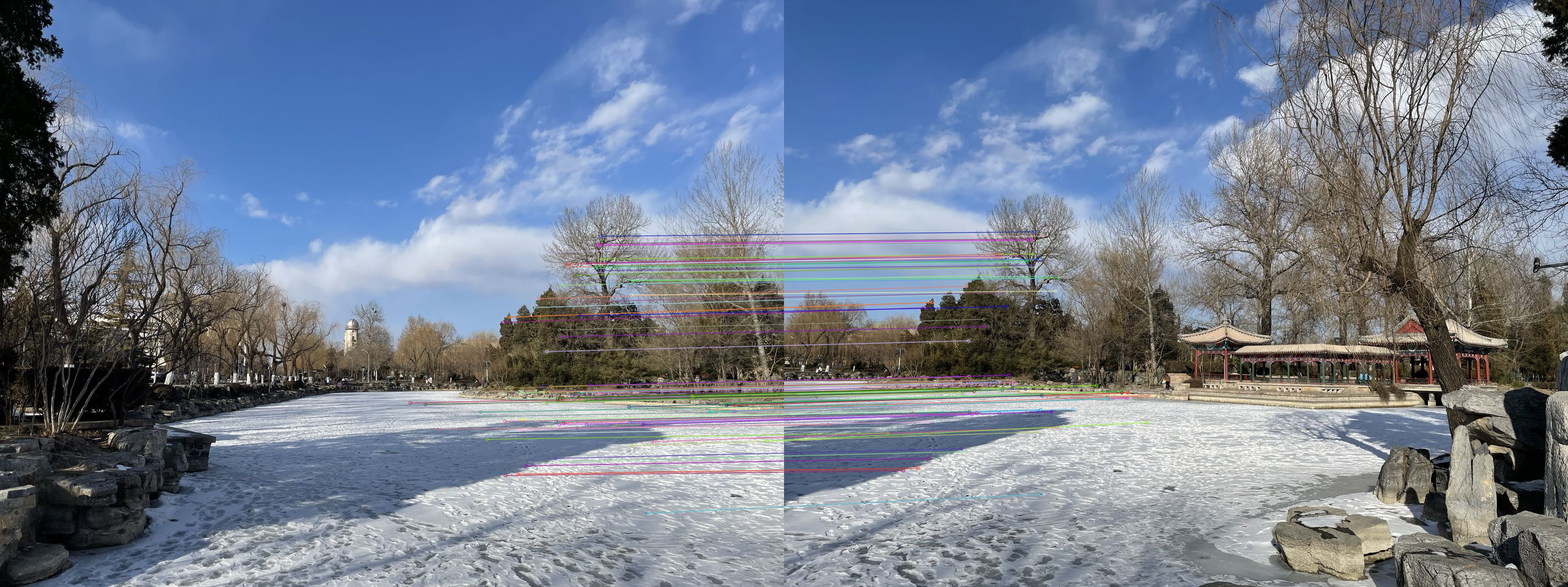
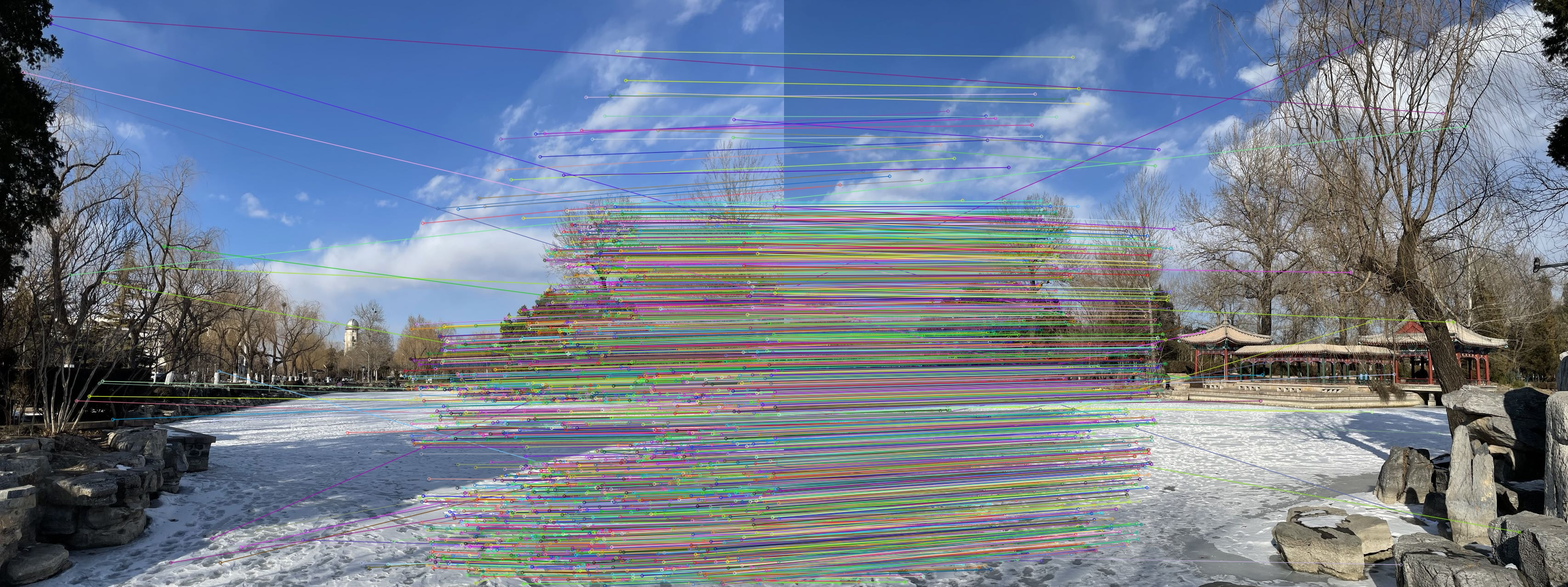
add another simple sift

diff --git a/main.py b/main.py
@@ -36,24 +36,20 @@ def sift(img1, img2):
 
     # BFMatcher with default params
     bf = cv.BFMatcher()
-
-    # matches = bf.knnMatch(des1, des2, k=2)
-    matches = bf.match(des1, des2)
-    matches = sorted(matches, key = lambda x:x.distance)
+    matches = bf.knnMatch(des1, des2, k=2)
 
     # Apply ratio test
-    # good = []
-    # for m, n in matches:
-    #     if m.distance < 0.75 * n.distance:
-    #         good.append([m])
+    good = []
+    for m, n in matches:
+        if m.distance < 0.75 * n.distance:
+            good.append([m])
 
     # cv.drawMatchesKnn expects list of lists as matches.
-    img3 = cv.drawMatches(img1, kp1, img2, kp2, matches[:100], None, flags=2)
-    # img3 = cv.drawMatchesKnn(img1, kp1, img2, kp2, good, None, flags=cv.DrawMatchesFlags_NOT_DRAW_SINGLE_POINTS)
+    img3 = cv.drawMatchesKnn(img1, kp1, img2, kp2, good, None, flags=cv.DrawMatchesFlags_NOT_DRAW_SINGLE_POINTS)
     
     cv_write(PIC_SIFT, img3)
 
-    return img3
+    return img3, good
 
 def main():
     # read an image
@@ -61,7 +57,7 @@ def main():
     img2 = cv_read(PIC_2)
 
     # sift
-    img3 = sift(img1, img2)
+    img3, good = sift(img1, img2)
 
 if __name__ == '__main__':
     main()
